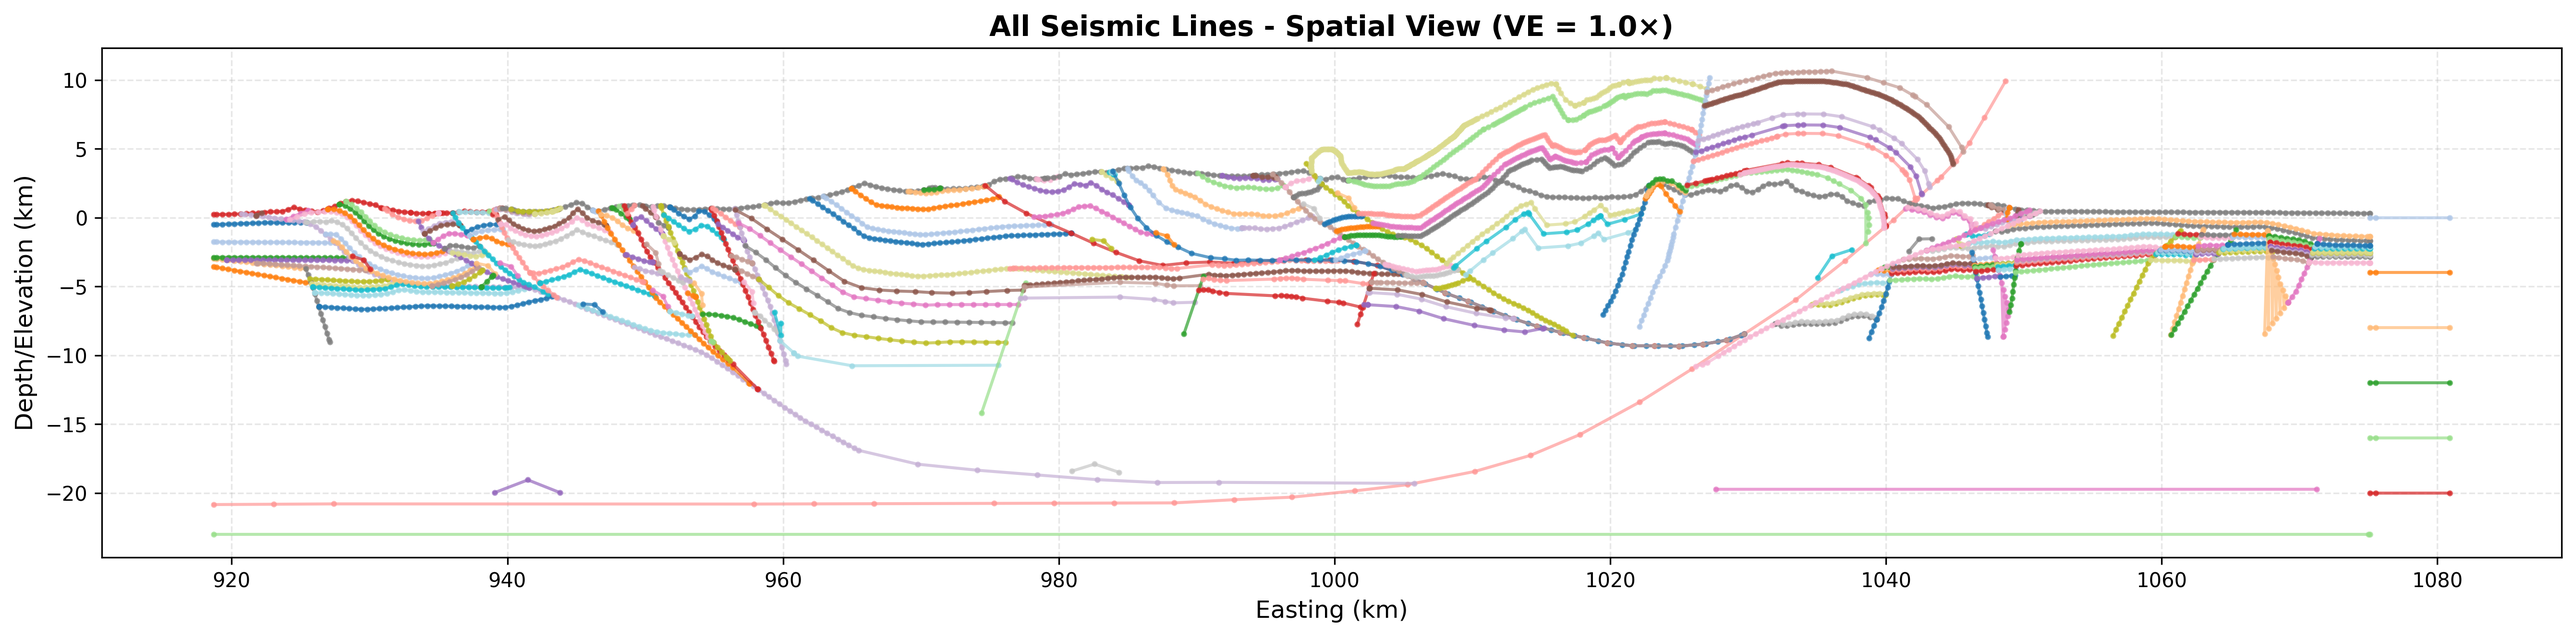
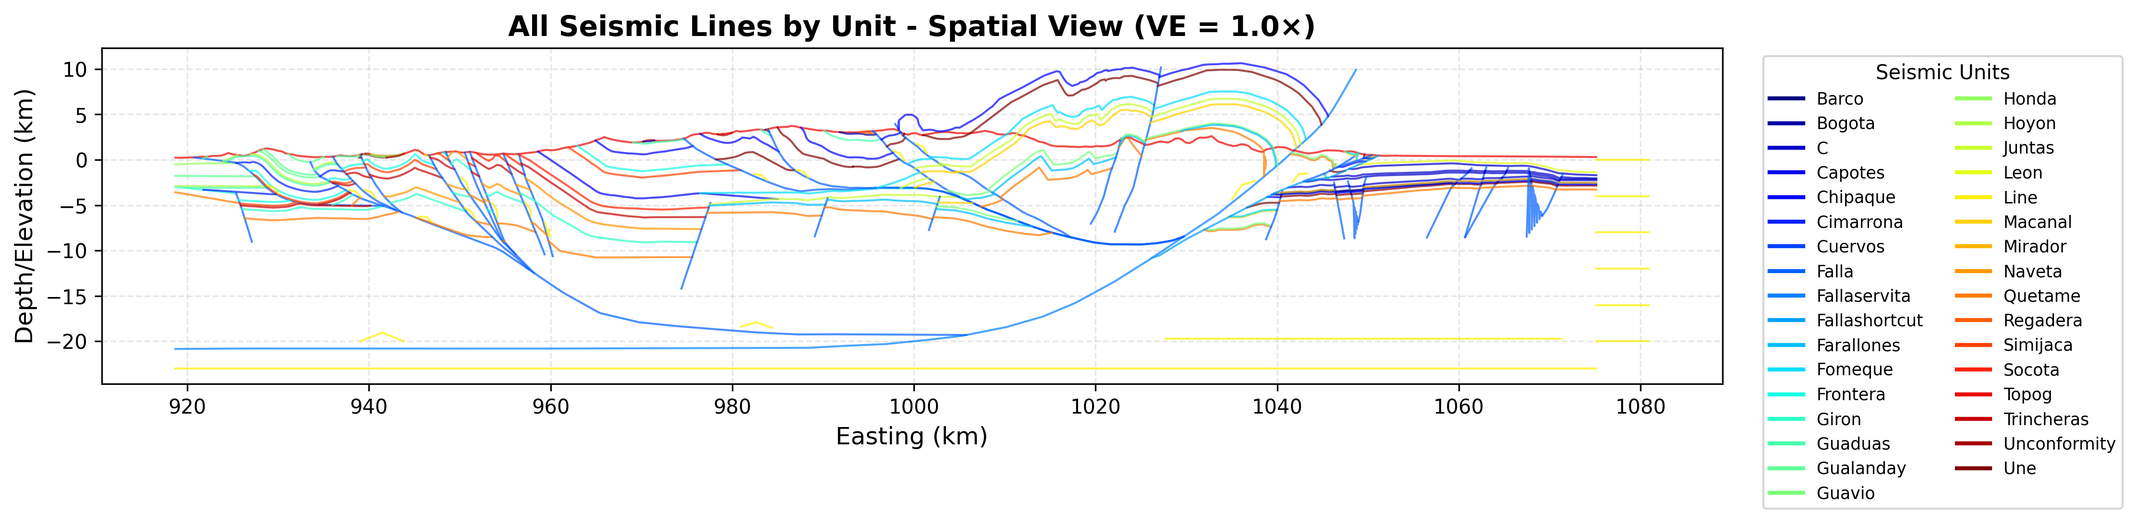
separated units

diff --git a/visualization/spatial_seismic_plotter.py b/visualization/spatial_seismic_plotter.py
@@ -3,6 +3,7 @@ import pandas as pd
 import numpy as np
 import matplotlib.pyplot as plt
 from pathlib import Path
+from matplotlib.lines import Line2D
 
 def plot_seismic_spatial(
     df: pd.DataFrame,
@@ -10,15 +11,16 @@ def plot_seismic_spatial(
     vertical_exaggeration: float = 5.0,
     save_path: Path = None,
     use_coordinate: str = 'x',  # 'x', 'y', or 'both'
-    remove_outliers: bool = True
+    remove_outliers: bool = True,
+    linewidth: float = 1.5 
 ):
     """
-    Plot all seismic lines using actual spatial coordinates.
+    Plot all seismic lines using actual spatial coordinates, colored by unit.
     
     Parameters
     ----------
     df : pd.DataFrame
-        Full seismic dataset with x, y, z, line_id columns
+        Full seismic dataset with x, y, z, unit, line_id columns
     topo_file : Path, optional
         Path to topography file to overlay
     vertical_exaggeration : float
@@ -37,8 +39,6 @@ def plot_seismic_spatial(
     
     # Filter outliers if requested
     if remove_outliers:
-        # More aggressive outlier removal
-        # Find the main cluster of data (middle 98%)
         x_q1, x_q99 = df['x'].quantile([0.01, 0.99])
         y_q1, y_q99 = df['y'].quantile([0.01, 0.99])
         
@@ -46,14 +46,11 @@ def plot_seismic_spatial(
         print(f"  X: {df['x'].min():.2f} to {df['x'].max():.2f}")
         print(f"  Y: {df['y'].min():.2f} to {df['y'].max():.2f}")
         
-        # Use the middle 98% range, extended by only 0.5x the range
         x_range = x_q99 - x_q1
         y_range = y_q99 - y_q1
-        
         x_min, x_max = x_q1 - 0.5*x_range, x_q99 + 0.5*x_range
         y_min, y_max = y_q1 - 0.5*y_range, y_q99 + 0.5*y_range
         
-        # Filter
         initial_count = len(df)
         df = df[
             (df['x'] >= x_min) & (df['x'] <= x_max) &
@@ -65,93 +62,78 @@ def plot_seismic_spatial(
         print(f"Data range after filtering:")
         print(f"  X: {df['x'].min():.2f} to {df['x'].max():.2f}")
         print(f"  Y: {df['y'].min():.2f} to {df['y'].max():.2f}")
+
+    # Use the 'unit' column directly for grouping and coloring.
+    # The 'unit_id' column is now just a cleaned version of the 'unit' column.
+    if 'unit' in df.columns:
+        df['unit_id'] = df['unit'].str.strip().str.replace(r'\d+$', '', regex=True).fillna('Unknown')
+    else:
+        print("Warning: 'unit' column not found. Coloring all lines the same.")
+        df['unit_id'] = 'Unknown'
+
+    unique_units = sorted(df['unit_id'].unique())
+    print(f"\nFound {len(unique_units)} unique seismic units after grouping: {unique_units}")
+
+    # Create a color map for the units
+    num_units = len(unique_units)
+    # Use a perceptually distinct colormap
+    colors = cm.get_cmap('tab20' if num_units <= 20 else 'jet', num_units)
+    unit_to_color = {unit: colors(i) for i, unit in enumerate(unique_units)}
     
-    # Get unique line IDs
     line_ids = sorted(df['line_id'].unique())
-    
-    print(f"Plotting {len(line_ids)} lines spatially...")
-    
-    # Create color map
-    colors = cm.tab20(np.linspace(0, 1, min(len(line_ids), 20)))
-    if len(line_ids) > 20:
-        # If more than 20 lines, cycle through colors
-        colors = cm.tab20(np.linspace(0, 1, 20))
+    print(f"Plotting {len(line_ids)} lines from {num_units} units spatially...")
     
     fig, ax = plt.subplots(figsize=(18, 8))
     
-    # Calculate the horizontal coordinate for all points
     if use_coordinate == 'x':
         df['horizontal'] = df['x']
         xlabel = 'Easting (km)'
     elif use_coordinate == 'y':
         df['horizontal'] = df['y']
         xlabel = 'Northing (km)'
-    else:  # 'both' - calculate distance from min corner
+    else:
         min_x, min_y = df['x'].min(), df['y'].min()
         df['horizontal'] = np.sqrt((df['x'] - min_x)**2 + (df['y'] - min_y)**2)
         xlabel = 'Distance from Origin (km)'
     
-    # Plot each line
-    for idx, line_id in enumerate(line_ids):
+    for line_id in line_ids:
         line_data = df[df['line_id'] == line_id].copy()
         
         if len(line_data) < 2:
             continue
         
-        # Sort by horizontal coordinate for cleaner lines
+        unit_id = line_data['unit_id'].iloc[0]
         line_data = line_data.sort_values('horizontal')
-        
-        # Convert to kilometers
         horizontal_km = line_data['horizontal'] / 1000
         depth_km = line_data['z'] / 1000
         
-        # Use color cycling if more than 20 lines
-        color_idx = idx % len(colors)
-        
-        # Plot this line
-        ax.plot(horizontal_km, depth_km, 'o-', 
-                color=colors[color_idx], 
-                linewidth=1.5, 
+        ax.plot(horizontal_km, depth_km, '-', 
+                color=unit_to_color[unit_id],
+                linewidth=linewidth, 
                 markersize=2,
-                label=f'Line {line_id}' if idx < 30 else '',  # Limit legend entries
                 alpha=0.7)
     
-    # Overlay topography if provided
     if topo_file and topo_file.exists():
         try:
+            # Assuming load_topography is in a sibling directory as per your structure
             from visualization.data_load import load_topography
             topo_x, topo_z = load_topography(topo_file)
             
-            # Filter topography outliers
             if len(topo_x) > 0:
                 topo_x_median = np.median(topo_x)
                 topo_x_std = np.std(topo_x)
                 valid_topo = np.abs(topo_x - topo_x_median) < 5 * topo_x_std
-                topo_x = topo_x[valid_topo]
-                topo_z = topo_z[valid_topo]
+                topo_x, topo_z = topo_x[valid_topo], topo_z[valid_topo]
                 
                 print(f"Topography: {len(topo_x)} points, X range: {topo_x.min():.2f} to {topo_x.max():.2f}")
                 
-                # Check if topography coordinate system matches seismic data
-                # Seismic data should be in meters (large values like 918680)
-                # Topography might be in km starting from 0
-                data_x_range = df['horizontal'].max() - df['horizontal'].min()
-                topo_x_range = topo_x.max() - topo_x.min()
-                
-                # If topography range is much smaller and starts near 0, it's in different coordinates
                 if topo_x.max() < df['horizontal'].min() * 0.5:
                     print("WARNING: Topography appears to be in different coordinate system - skipping overlay")
                     print(f"  Seismic data range: {df['horizontal'].min():.0f} to {df['horizontal'].max():.0f}")
                     print(f"  Topography range: {topo_x.min():.0f} to {topo_x.max():.0f}")
                     topo_horizontal = None
                 else:
-                    # Convert topography to same coordinate system
-                    if use_coordinate == 'x':
-                        topo_horizontal = topo_x
-                    elif use_coordinate == 'y':
-                        topo_horizontal = None
-                    else:
-                        topo_horizontal = topo_x
+                    topo_horizontal = topo_x if use_coordinate != 'y' else None
             else:
                 topo_horizontal = None
             
@@ -161,24 +143,38 @@ def plot_seismic_spatial(
         except Exception as e:
             print(f"Warning: Could not load topography: {e}")
     
-    # Formatting
     ax.set_xlabel(xlabel, fontsize=12)
     ax.set_ylabel('Depth/Elevation (km)', fontsize=12)
-    ax.set_title(f'All Seismic Lines - Spatial View (VE = {vertical_exaggeration:.1f}×)', 
+    ax.set_title(f'All Seismic Lines by Unit - Spatial View (VE = {vertical_exaggeration:.1f}×)', 
                  fontsize=14, fontweight='bold')
     ax.grid(True, alpha=0.3, linestyle='--')
     
-    # Legend - only if not too many lines
-    if len(line_ids) <= 30:
-        ax.legend(bbox_to_anchor=(1.02, 1), loc='upper left', fontsize=7, ncol=2)
+    legend_elements = [
+        Line2D([0], [0], color=color, lw=2, label=unit)
+        for unit, color in unit_to_color.items()
+    ]
+    if any('Topography' in handle.get_label() for handle in ax.get_legend_handles_labels()[0]):
+        legend_elements.append(Line2D([0], [0], color='black', lw=3, label='Topography'))
+
+    if num_units > 40:
+        ncol = 3
+    elif num_units > 20:
+        ncol = 2
+    else:
+        ncol = 1
+
+    # Add the ncol and fontsize parameters to the legend call
+    ax.legend(
+        handles=legend_elements, 
+        title="Seismic Units", 
+        bbox_to_anchor=(1.02, 1), 
+        loc='upper left',
+        ncol=ncol,
+        fontsize='small' # Use a smaller font for the legend
+    )
     
-    # Set aspect ratio for vertical exaggeration
     ax.set_aspect(vertical_exaggeration)
-    
-    # Invert y-axis so depth increases downward
-    #ax.invert_yaxis()
-    
-    plt.tight_layout()
+    fig.subplots_adjust(right=0.75)
     
     if save_path:
         plt.savefig(save_path, dpi=300, bbox_inches='tight')
@@ -187,7 +183,6 @@ def plot_seismic_spatial(
     plt.show()
     
     return fig, ax
-
 
 def analyze_line_orientation(df: pd.DataFrame):
     """

diff --git a/main.py b/main.py
@@ -51,7 +51,8 @@ def plot_seismic_sections():
         topo_file=topo_file if topo_file.exists() else None,
         vertical_exaggeration=1.0,
         save_path=output_dir / "all_lines_spatial.png",
-        use_coordinate=recommended_coord  # Use 'x', 'y', or 'both'
+        use_coordinate=recommended_coord,  # Use 'x', 'y', or 'both'
+        linewidth=1.0
     )
     
     # OPTION 2: Plot individual lines normalized (COMMENTED OUT)
